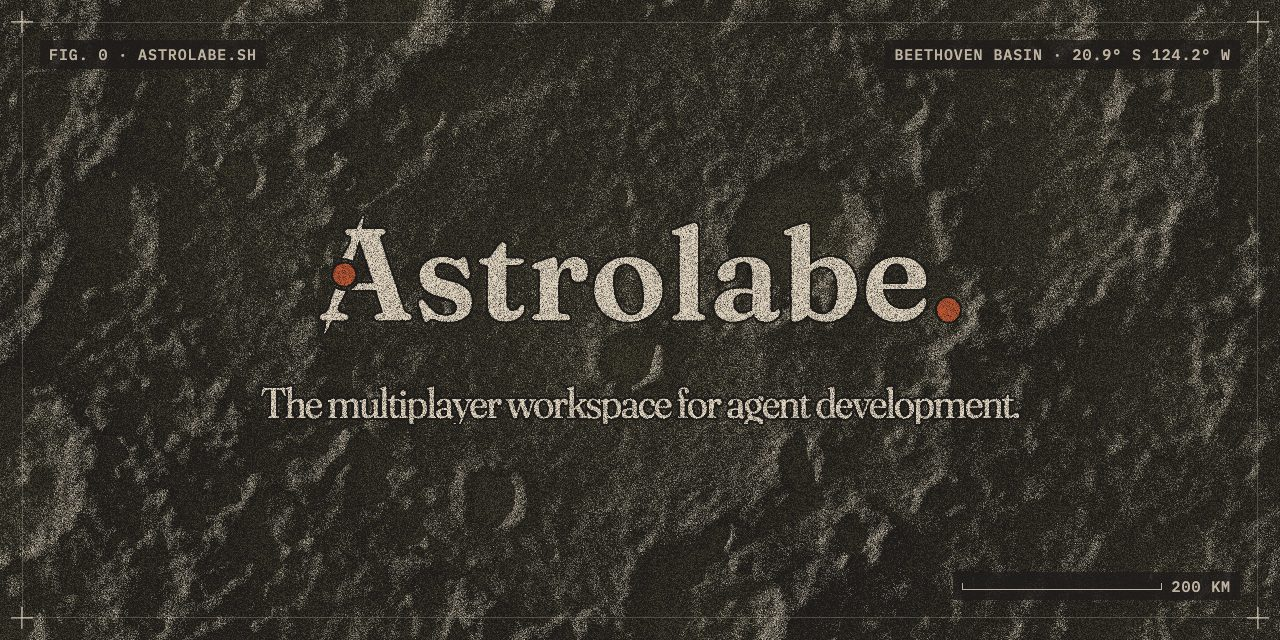
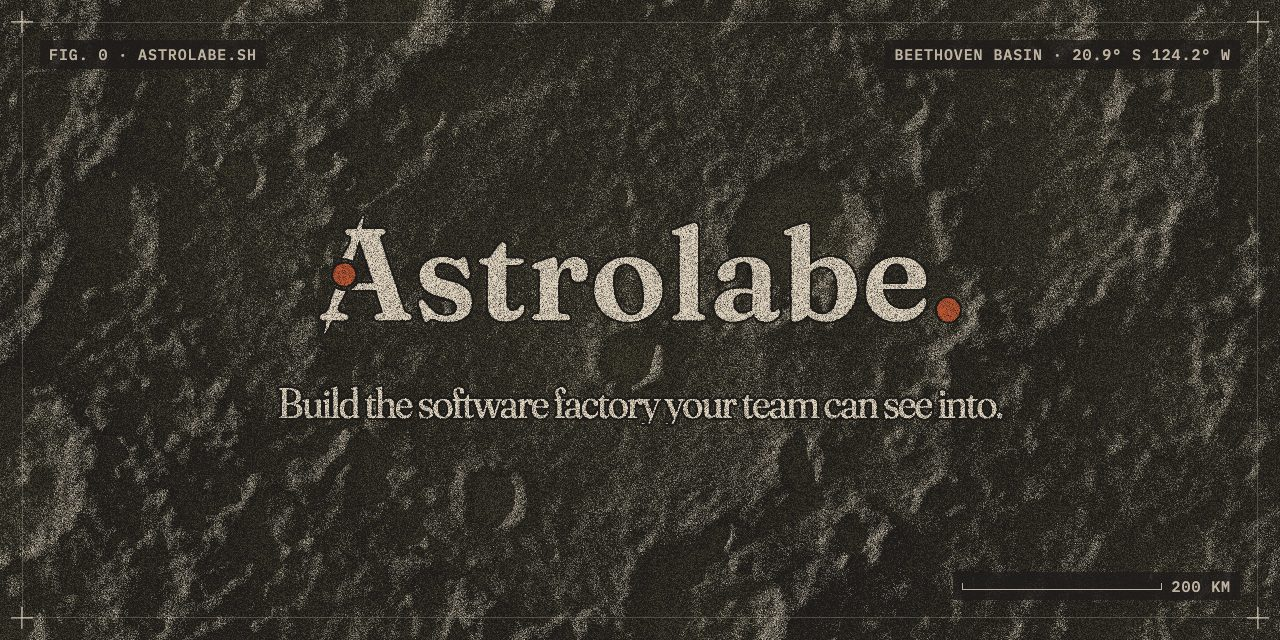
feat(landing): skills, a fourth tour phase and the software-factory headline
The page described a workspace for running agents, while Astrolabe now keeps
the team's knowledge in wikis, answers questions over it, and has agents
draw what they changed. The headline, the hero and the audience list did
not say so, and skills built from the wiki had no place on the page.

Add [06] Skills after Wikis: a skill note made from the
create-verification-skill template, with its test cases, beside a chat in
which Claude uses it on the Apple Pay button; the prose says templates are
the starting point and skills are reviewed and merged like any wiki change.
The hero tour gains 04 Skills: the planner writes the skill into the wiki,
you merge it, and it runs in the planner's thread. The lede names the shared
wiki and the drawings, the headline becomes "Build the software factory your
team can see into.", the description, close line and audience list follow,
and the share cards are re-rendered with the new headline. Later sections
and the menu renumber.

Changed region(s): [[0.1875, 0.5938, 0.8125, 0.6562]]

diff --git a/apps/landing/src/styles/drafting.css b/apps/landing/src/styles/drafting.css
@@ -838,7 +838,7 @@ section {
 .tour__phases {
   grid-column: span 6;
   display: grid;
-  grid-template-columns: repeat(3, minmax(0, 1fr));
+  grid-template-columns: repeat(4, minmax(0, 1fr));
 }
 .tour__phases > li {
   display: flex;
@@ -2492,6 +2492,8 @@ hidden, leaves the sticky stage working). */
 .app--tour:not([data-section="agents"]) [data-in="agents"],
 .app--tour:not([data-section="wikis"]) [data-in="wikis"],
 .app--tour:not([data-section="changes"]) [data-in="changes"],
+.app--tour:not([data-wiki="skill"]) [data-wv="skill"],
+.app--tour[data-wiki="skill"] [data-wv="doc"],
 .app--tour[data-cpane="pr"] .pane--group,
 .app--tour:not([data-cpane="pr"]) .pane--pr {
   display: none;
@@ -2794,6 +2796,9 @@ hidden, leaves the sticky stage working). */
 }
 .app--tour[data-edits="accepted"] .doc__typed {
   background: transparent;
+}
+.app--tour .skill__cases .doc__typed {
+  border-radius: 0.2em;
 }
 .app--tour .cursor {
   border-left-color: var(--agent);
@@ -3580,7 +3585,78 @@ hidden, leaves the sticky stage working). */
   }
 }
 
-/* ───────────────────────────────────────── [06] Repositories: a thread's checkout, as
+/* ───────────────────────────────────────── [06] Skills: a skill note in the wiki beside the chat
+   that uses it, two panes under the rail. */
+
+.app--skill .tb {
+  grid-template-columns: calc(var(--rail) + (100% - var(--rail)) / 2) minmax(0, 1fr);
+}
+.app--skill .pb {
+  grid-template-columns: var(--rail) minmax(0, 1fr) minmax(0, 1fr);
+  height: auto;
+}
+.app--skill .tb .lights {
+  margin-right: 0.8em;
+}
+.skill__second {
+  border-left: 1px solid var(--app-border);
+}
+.app--skill .pane--doc {
+  border-right: 1px solid var(--app-border);
+}
+.app--skill .doc {
+  padding: 1.6em 2em 2em;
+}
+.app--skill .doc h4 {
+  font-size: 1.5em;
+}
+.skill__from {
+  margin-bottom: 0.6em;
+  font-size: 0.8em;
+  color: var(--app-muted);
+}
+.skill__cases {
+  padding-left: 1.3em;
+  list-style: decimal;
+}
+.skill__cases li + li {
+  margin-top: 0.25em;
+}
+.app--skill .chat {
+  justify-content: flex-end;
+  padding: 1.6em 1.8em 1.8em;
+}
+.skill__chip {
+  padding: 0.05em 0.35em;
+  border-radius: 0.3em;
+  background: var(--app-agent-tint);
+  color: var(--app-agent);
+  font-weight: 500;
+}
+.surface__desc code {
+  font-family: var(--mono);
+  font-size: 0.86em;
+  white-space: nowrap;
+}
+@container (max-width: 700px) {
+  .app--skill .tb {
+    grid-template-columns: minmax(0, 1fr);
+  }
+  .app--skill .skill__second,
+  .app--skill .rail {
+    display: none;
+  }
+  .app--skill .pb {
+    grid-template-columns: minmax(0, 1fr);
+    grid-template-rows: auto auto;
+  }
+  .app--skill .pane--doc {
+    border-right: 0;
+    border-bottom: 1px solid var(--app-border);
+  }
+}
+
+/* ───────────────────────────────────────── [07] Repositories: a thread's checkout, as
    RepositorySidebar and RepositoryFileView draw it. The sidebar's rows are the app's 32 px rows;
    the file's header is its 32 px bar, and its code the editor's code mode, Alabaster's colours. */
 
@@ -3754,7 +3830,7 @@ hidden, leaves the sticky stage working). */
   }
 }
 
-/* ───────────────────────────────────────── [07] Changes: a change group, and what its states mean */
+/* ───────────────────────────────────────── [08] Changes: a change group, and what its states mean */
 
 .changes__body {
   display: grid;
@@ -3816,7 +3892,7 @@ hidden, leaves the sticky stage working). */
   }
 }
 
-/* ───────────────────────────────────────── [08] Understanding: a canvas kept in the wiki, as the
+/* ───────────────────────────────────────── [09] Understanding: a canvas kept in the wiki, as the
    app's canvas tab draws one: a dotted board, groups labelled above, cards, arrows, changed cards
    tinted. Drawn wide, and stacked for a phone-width window. */
 
@@ -3921,7 +3997,7 @@ hidden, leaves the sticky stage working). */
   }
 }
 
-/* ───────────────────────────────────────── [09] Automations: one weekday, three ways an agent starts
+/* ───────────────────────────────────────── [10] Automations: one weekday, three ways an agent starts
    Each row is a trigger beside its lane on one shared day. A lane places its marks by time, as
    fractions of the day: --x where it starts, --w where the pull request wakes it, --y where it ends.
    Each mark draws in as the playhead (--p) passes, through the same windows as [04]. Static (no JS,
@@ -4204,7 +4280,7 @@ hidden, leaves the sticky stage working). */
     border-top: 1px solid var(--rule);
   }
 }
-/* ───────────────────────────────────────── [10] Anywhere */
+/* ───────────────────────────────────────── [11] Anywhere */
 
 .anywhere {
   display: grid;
@@ -4226,7 +4302,7 @@ hidden, leaves the sticky stage working). */
   border-left: 1px solid var(--rule);
   container-type: inline-size;
 }
-/* The reach figure ([10] Anywhere) is drawn in the [03] cards' figure language: the devices are
+/* The reach figure ([11] Anywhere) is drawn in the [03] cards' figure language: the devices are
    <g> parts in .reach__defs, placed by two compositions, wide beside the copy and tall when the
    column is narrow. It is complete at rest; rust marks the phone reaching the machine. */
 .reach__defs {
@@ -4561,7 +4637,7 @@ hidden, leaves the sticky stage working). */
   visibility: visible;
 }
 
-/* ───────────────────────────────────────── [11] Who it's for: a section head beside its list */
+/* ───────────────────────────────────────── [12] Who it's for: a section head beside its list */
 
 .who {
   display: grid;

diff --git a/apps/landing/src/scripts/tour-scenes.js b/apps/landing/src/scripts/tour-scenes.js
@@ -1,7 +1,7 @@
-// The hero tour's script: three scenarios over one drawn window (HeroWindow.astro); the main one plays
-// on arrival, each example when its prompt chip is clicked. A phase is { at, type, payload } events
-// (`at` ms from phase start). Types: show/hide (data-k keys), swap { from, to }, press (data-p),
-// section, thread, cpane ("group" | "pr"), edits ("live" | "settled" | "accepted"), merge ("off" | "on").
+// The hero tour's script: three scenarios over one drawn window (HeroWindow.astro). A phase is
+// { at, type, payload } events (`at` ms from phase start). Types: show/hide (data-k keys), swap
+// { from, to }, press (data-p), section, wiki ("doc" | "skill"), thread, cpane ("group" | "pr"),
+// edits ("live" | "settled" | "accepted"), merge ("off" | "on").
 
 const send = (draft) => [
   { at: 0, type: "show", payload: "placeholder" },
@@ -69,6 +69,7 @@ export const scenarios = [
           "The planner brings the wiki’s Payments page up to date. Its words arrive tinted under its cursor, the sentence they replace is ghosted, and you accept the change.",
         events: [
           { at: 0, type: "section", payload: "wikis" },
+          { at: 0, type: "wiki", payload: "doc" },
           { at: 0, type: "edits", payload: "live" },
           show(0, ["doc-working", "old"]),
           show(700, "cursor"),
@@ -120,6 +121,39 @@ export const scenarios = [
           swap(8600, "grp-sync", "grp-merged"),
           // A merged group leaves the sidebar; its tab stays open.
           { at: 10000, type: "hide", payload: "grp-groups" },
+        ],
+      },
+      {
+        segment: 3,
+        wiki: "skill",
+        duration: 13000,
+        caption:
+          "Claude writes a Verify checkout skill from the create-verification-skill template, with three test cases, into the wiki. Once you merge it, Claude uses it on the Apple Pay button, and all three cases pass.",
+        events: [
+          { at: 0, type: "section", payload: "wikis" },
+          { at: 0, type: "wiki", payload: "skill" },
+          { at: 0, type: "edits", payload: "live" },
+          show(0, ["sk-working", "sk-open"]),
+          show(800, "sk-c1"),
+          show(1500, "sk-c2"),
+          show(2200, "sk-c3"),
+          { at: 3000, type: "edits", payload: "settled" },
+          { at: 3000, type: "hide", payload: "sk-working" },
+          press(4200, "sk-merge"),
+          { at: 4500, type: "edits", payload: "accepted" },
+          swap(4500, "sk-open", "sk-merged"),
+          // Back in the planner's thread, the merged skill is one $ away.
+          { at: 5600, type: "section", payload: "agents" },
+          thread(5600, "plan"),
+          swap(6000, "placeholder", "draft-skill"),
+          press(6700, "send"),
+          swap(6850, "draft-skill", "placeholder"),
+          show(6850, "plan-skill-ask"),
+          swap(6850, "plan-st-now", "plan-st-work"),
+          show(7600, "plan-skill-load"),
+          show(8500, "plan-skill-run"),
+          show(9800, "plan-skill-reply"),
+          swap(9800, "plan-st-work", "plan-st-now"),
         ],
       },
     ],

diff --git a/apps/landing/src/scripts/tour.js b/apps/landing/src/scripts/tour.js
@@ -5,8 +5,8 @@
 
 import { scenarios } from "./tour-scenes.js";
 
-const ATTRIBUTES = new Set(["section", "thread", "cpane", "edits", "merge"]);
-const SECTIONS = ["agents", "wikis", "changes"];
+const ATTRIBUTES = new Set(["section", "wiki", "thread", "cpane", "edits", "merge"]);
+const SECTIONS = ["agents", "wikis", "changes", "wikis"];
 
 const tour = document.querySelector("[data-tour]");
 const app = document.querySelector("[data-tour-app]");
@@ -240,10 +240,11 @@ function run(tour, app) {
     explore();
   }
 
-  // Phase i's section, as the scenario left it.
+  // Phase i's section, as the scenario left it; a wikis phase names the note it shows.
   function turnTo(i) {
     phase = i;
     setAttribute("section", SECTIONS[phasesOf(scenario)[i].segment]);
+    setAttribute("wiki", phasesOf(scenario)[i].wiki ?? "doc");
     showPhase();
     settleFills();
   }

diff --git a/apps/landing/src/site.js b/apps/landing/src/site.js
@@ -1,7 +1,7 @@
 // The page's positioning in one place: the hero's headline, the title and the share text read
 // from here, so a new line is one edit.
 
-export const headline = "The multiplayer workspace for agent development.";
+export const headline = "Build the software factory your team can see into.";
 
 export const description =
-  "Run Claude Code, Codex and Cursor side by side. They hand work to each other, keep what they learn in a shared wiki, and ship code and docs together.";
+  "Run Claude Code, Codex and Cursor side by side. They hand work to each other, work from a shared wiki of what your team knows, and draw what they changed.";
